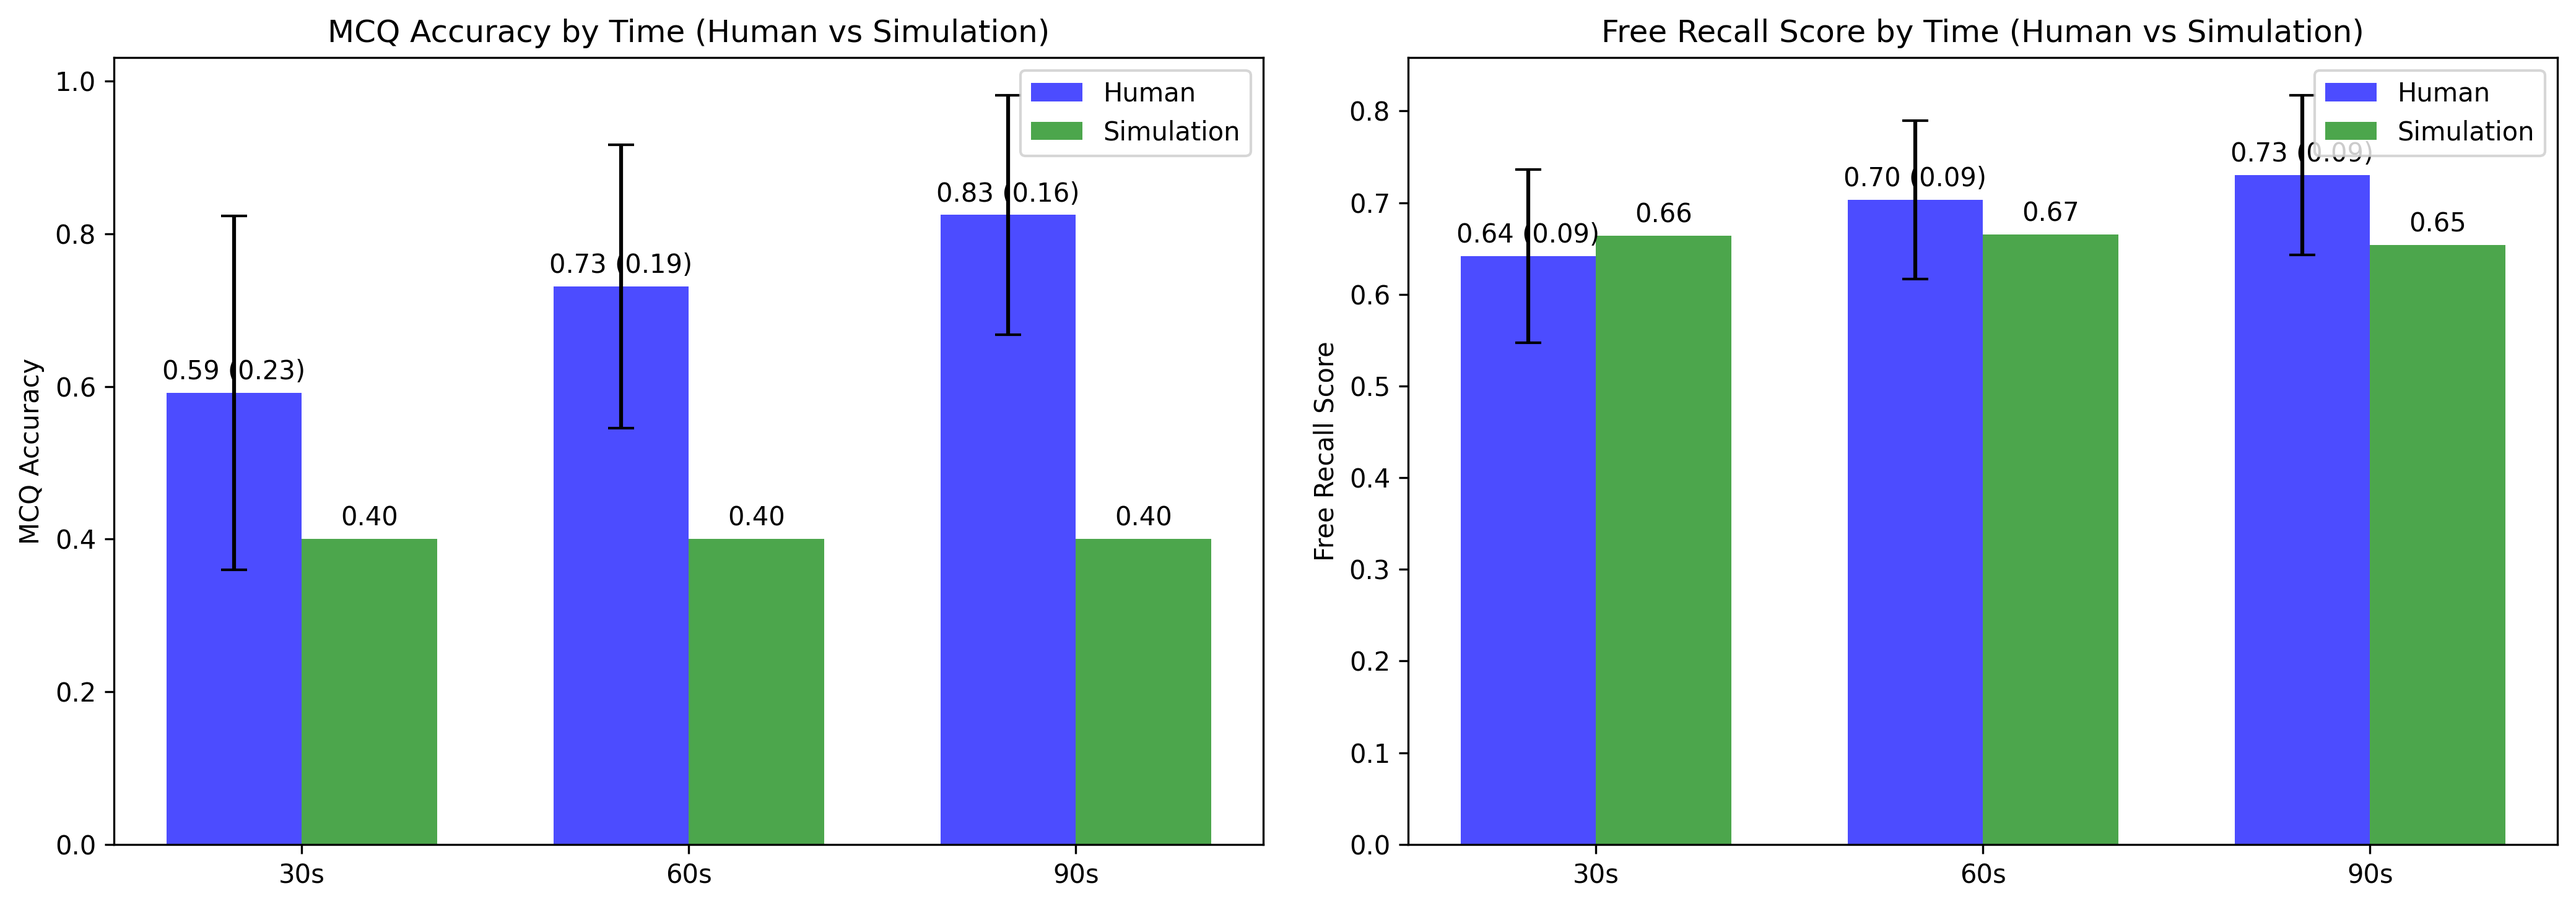
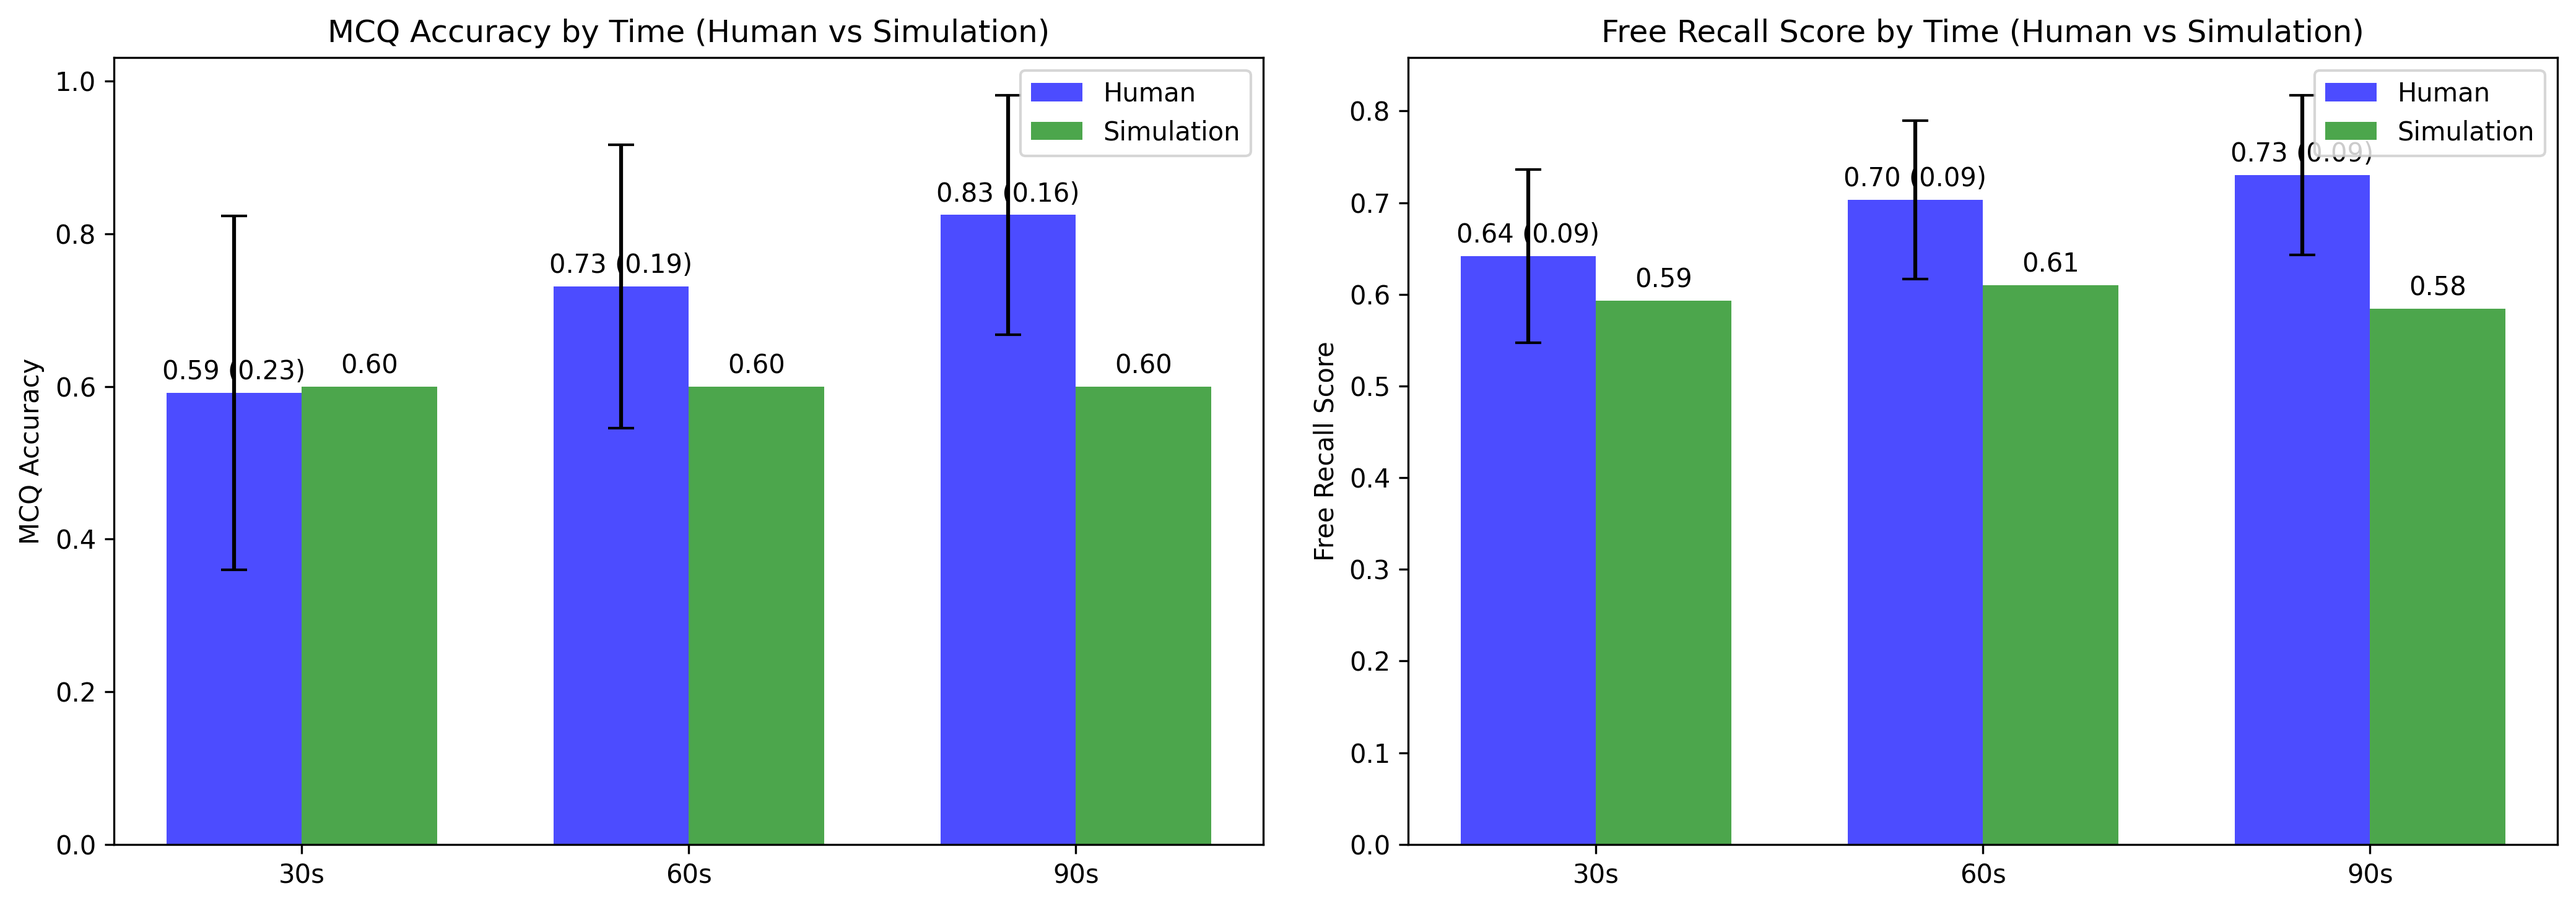
Code >> Add the facet mode, summarise sentences instead of making strict Kintsch's propositions.

diff --git a/step5/simulators/simulator_v20250604/results/analyze_aggregated_results/offline_text_comprehension_runner/ci_schema_pipeline.py b/step5/simulators/simulator_v20250604/results/analyze_aggregated_results/offline_text_comprehension_runner/ci_schema_pipeline.py
@@ -217,6 +217,34 @@ class PropositionParser:
             if self.logger:
                 self.logger.debug(f"LLM parse failed; fallback to heuristic. Reason: {e}")
             return None
+    
+    def parse_facets(self, sent: str, sent_id: int) -> List[str]:
+        # LLM facets; fall back to the whole sentence if anything fails
+        try:
+            # prompt = FACET_PROMPT_TEMPLATE.format(SENTENCE=sent)
+            prompt = (
+                "You are a careful reader building sentence-level memory.\n"
+                "Task: Convert the input sentence into concise facet summaries that together preserve all meaning.\n"
+                "**Requirements**:\n"
+                " - Write 3-8 facets (more if the sentence is information-dense).\n"
+                " - One facet per line, plain text. No commas, bullets, or numbering.\n"
+                " - Keep named entities, numbers, dates, units exactly as given.\n"
+                " - Prefer base-form verbs (announce, expand, include).\n"
+                " - Capture: actor, action, object/topic, purpose/reason, time, place, quantities, conditions/contrast, outcome, negation/modality if present.\n"
+                " - Use short, declarative fragments (≈ 5-12 words).\n"
+                " - Do not invent information or resolve ambiguities; use “unspecified” when missing.\n"
+                " - Output only the facets; no explanations.\n"
+                f"**Sentence**: {sent}"
+            )
+            lines = self.llm.get_facet_summaries(self.role, prompt)
+            # de-dup but keep order
+            out, seen = [], set()
+            for s in lines:
+                if s not in seen:
+                    out.append(s); seen.add(s)
+            return out or [sent]
+        except Exception:
+            return [sent] 
 
 # --------------------------- CI integration ---------------------------
 
@@ -461,6 +489,8 @@ def process_episode(ep: Dict,
 
     gist_board = GistBoard(per_sent_limit=som_limit, update_policy=som_policy)
 
+    micro_prop_mode = parse_mode in ("llm")
+
     for k, log in enumerate(ep["text_reading_logs"], start=1):
         t0 = time.perf_counter()
 
@@ -471,7 +501,14 @@ def process_episode(ep: Dict,
         if not sent:
             continue
         
-        if parse_mode == "raw":
+        if parse_mode == "facets":
+            strength = apply_visit_gain(visit_counter[sent_id])
+            wm_now = parser.parse_facets(sent, sent_id)              # list[str]
+            keep_scores = {}                                         # no schema scores
+            props = []                                               # avoid UnboundLocalError
+            wm_props = []
+            gist_board.update(sent_id, wm_now, keep_scores)          # all facets go to this sentence slot
+        elif parse_mode == "raw":
             # No micro-propositions; keep the exact sentence text as the single “item”
             props: List[Proposition] = []
             wm_props: List[Proposition] = []
@@ -502,6 +539,7 @@ def process_episode(ep: Dict,
                 schema.update_from_props(props, strength=strength)
                 wm_props, keep_scores = macroselect_gist(props, schema, buffer_size=wm_buffer)
                 # store the selected WM items with scores
+                wm_now = [p.signature() for p in wm_props] 
                 gist_board.update(sent_id, wm_now, keep_scores)
 
             # WM dynamics vs previous cycle
@@ -516,7 +554,7 @@ def process_episode(ep: Dict,
         # 5) local CI integration (optional coherence boost)
         # net = build_network(props)
         # integrate(net)
-        if mode == "ci_schema" and parse_mode != "raw":
+        if mode == "ci_schema" and micro_prop_mode:
             net = build_network(props)
             integrate(net)
 
@@ -528,7 +566,7 @@ def process_episode(ep: Dict,
             step=log["step"],
             sent_id=sent_id,
             sentence_text=sent,
-            propositions=( [p.signature() for p in props] if parse_mode != "raw" else wm_now ),
+            propositions=( [p.signature() for p in props] if micro_prop_mode else wm_now ),
             wm_kept=wm_now,
             wm_retained=wm_retained,
             wm_added=wm_added,
@@ -542,12 +580,20 @@ def process_episode(ep: Dict,
             dt = time.perf_counter() - t0
             top_now = ltm_store.topk(k=3)
             top_keys = [key for key, _ in top_now]
+            items_count = len(wm_now) if not micro_prop_mode else len(wm_props)
+            method_tag = parser.last_method if micro_prop_mode else ("facets" if parse_mode=="facets" else "raw")
             logger.info(
                 f"{episode_tag} step {k}/{total_steps} | sent={sent_id} visit={visit_counter[sent_id]} | "
-                f"{len(props)} props ({parser.last_method}), WM={len(wm_now)} [ret {len(wm_retained)}, +{len(wm_added)}, -{len(wm_dropped)}] | "
+                f"{items_count} items ({method_tag}), WM={len(wm_now)} [ret {len(wm_retained)}, +{len(wm_added)}, -{len(wm_dropped)}] | "
                 f"LTM+={len(ltm_updates)} (top: {', '.join(top_keys) if top_keys else '-'}) | "
                 f"{dt:.2f}s"
             )
+            # logger.info(
+            #     f"{episode_tag} step {k}/{total_steps} | sent={sent_id} visit={visit_counter[sent_id]} | "
+            #     f"{len(props)} props ({parser.last_method}), WM={len(wm_now)} [ret {len(wm_retained)}, +{len(wm_added)}, -{len(wm_dropped)}] | "
+            #     f"LTM+={len(ltm_updates)} (top: {', '.join(top_keys) if top_keys else '-'}) | "
+            #     f"{dt:.2f}s"
+            # )
             if logger.level <= logging.DEBUG:
                 if wm_now:
                     logger.debug("  WM now: " + " | ".join(wm_now[:5]))

diff --git a/step5/simulators/simulator_v20250604/results/analyze_aggregated_results/offline_text_comprehension_runner/main.py b/step5/simulators/simulator_v20250604/results/analyze_aggregated_results/offline_text_comprehension_runner/main.py
@@ -18,7 +18,7 @@ if __name__ == "__main__":
     ap.add_argument("--verbose", default="INFO", choices=["DEBUG","INFO","WARNING","ERROR"])
     ap.add_argument("--som_limit", type=int, default=20, help="Max propositions per sentence slot in the ordered gist")
     ap.add_argument("--som_policy", default="replace", choices=["replace","merge_topk"], help="How to update a sentence slot on revisits")
-    ap.add_argument("--parse_mode", default="llm", choices=["llm","heuristic","raw"], help="llm=LLM micro-props; heuristic=rule fallback; raw=store original sentences")
+    ap.add_argument("--parse_mode", default="llm", choices=["llm","facets","raw"], help="llm=LLM micro-props; heuristic=rule fallback; raw=store original sentences")
     args = ap.parse_args()
 
     # init your agent (uses your Aalto gateway per your file)

diff --git a/step5/simulators/simulator_v20250604/results/analyze_aggregated_results/offline_text_comprehension_runner/gpt_proposition_parser.py b/step5/simulators/simulator_v20250604/results/analyze_aggregated_results/offline_text_comprehension_runner/gpt_proposition_parser.py
@@ -94,6 +94,17 @@ class LLMAgent:
                 proposition_groups.append(group)
 
         return proposition_groups
+    
+    def get_facet_summaries(self, role, prompt):
+
+        if self.use_aalto_openai_api:
+            messages = [{"role":"system","content":role},{"role":"user","content":prompt}]
+            completion = self._client.chat.completions.create(model="no_effect", messages=messages)
+            text = completion.choices[0].message.content or ""
+            # one facet per non-empty line; NO comma splitting
+            return [ln.strip() for ln in text.split("\n") if ln.strip()]
+        else:
+            raise ValueError(f"Please use an institute API, e.g., Aalto's.")
 
 def update_base_url(request: httpx.Request) -> None:
         if request.url.path == "/chat/completions":

diff --git a/step5/simulators/simulator_v20250604/results/analyze_aggregated_results/offline_text_comprehension_runner/README.md b/step5/simulators/simulator_v20250604/results/analyze_aggregated_results/offline_text_comprehension_runner/README.md
@@ -237,6 +237,10 @@ WM=5 [ret 3, +2, -2] | LTM+=5 (top: skip(readers, words), install(stations, new)
       ```bash
       python main.py --episodes 27 --log_every 1 --parse_mode raw --mode none --som_policy merge_topk --verbose INFO
       ```
+    - CI schema integration off, use 'Facet Summaries' as propositions, instead of strict A(B, C)'s kintsch's propositions, which was over-fragmenting and loses too much information.
+      ```bash
+      python main.py --episodes 3 --log_every 1 --parse_mode facets --mode none --som_policy merge_topk --verbose INFO
+      ```
 
 4) **Inspect results**  
    - Open the generated JSON; check `wm_*` fields and `ltm_updates` for each step.  
